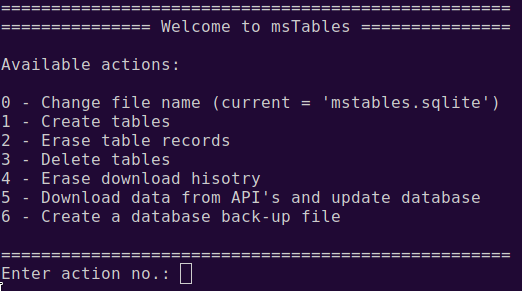
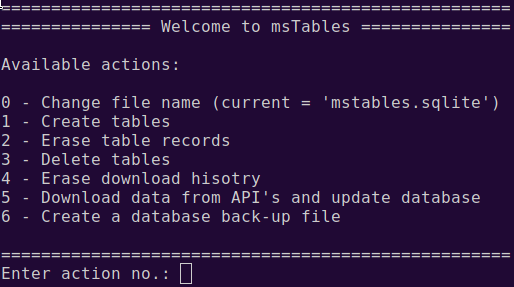
On branch master  Your branch is up to date with 'origin/master'.
Changes to be committed:
	modified:   README.md
	modified:   doc/menu.png

 Untracked files:
	.gitignore

diff --git a/README.md b/README.md
@@ -15,15 +15,16 @@ Command line interface for the MorningStar.com scraper has been published includ
 Instructions
 ------------
 *(work in progress, to be updated with step-by-step instructions)*
+
 Clone project files and execute file main.py with a Python interpreter from the project root folder to start the parser Command Line Interface (CLI). If the program started correctly, you should see the following as the CLI:
 
-![Imgur](https://i.imgur.com/28SO95R.png)
+![Imgur](https://i.imgur.com/aisCne1.png)
 
 All .sqlite files created will be stored under db/.
 
 This program should work as long as the structure of the responses does not change for the API's listed in [input/api.json](input/api.json).
 
-Open file [data_overview.ipynb](data_overview.ipynb) from Jupyter to see examples on how to work with the data using the pandas and matplotlib modules.
+Open file [data_overview.ipynb](data_overview.ipyn[Imgur](https://i.imgur.com/aisCne1.png)) from Jupyter to see examples on how to work with the data using the pandas and matplotlib modules.
 
 ### Package required to run scraper:
 - Python3
